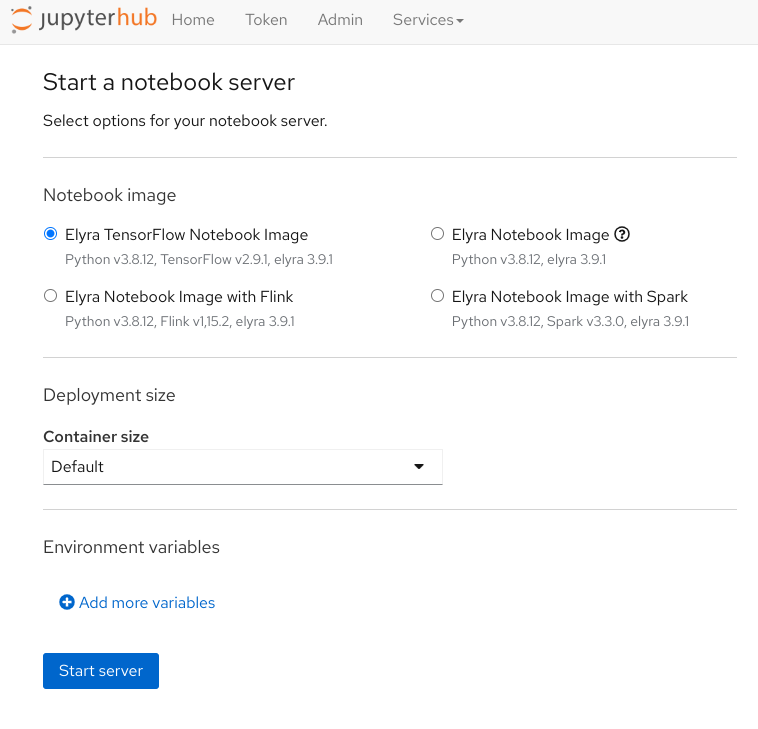
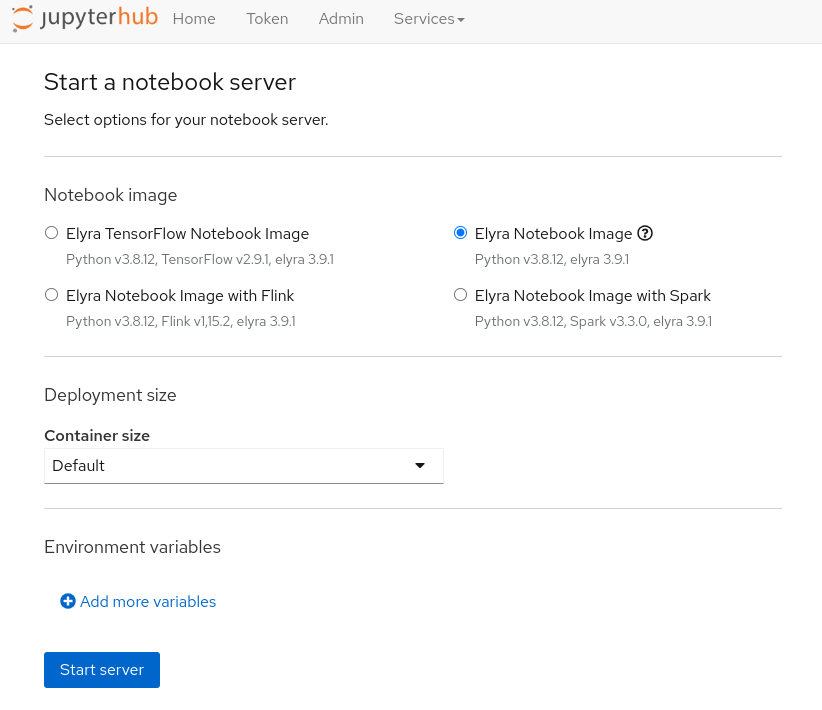
🦩 initial commit 🦩

diff --git a/4-aiml-demos/2-mlflow.md b/4-aiml-demos/2-mlflow.md
@@ -2,57 +2,122 @@
 ## Model pipeline promotion with MLFlow
 > mlflow - model lifecycle using a simple regression model, airflow pipeline promotion
 
-1. Once your notebook has opened
+1. From the previous exercise, open the **Elyra Notebook Image**.
 
 2. Open **aimlops-demos/mlflow** and Click on the notebook **mlflow.ipynb**
 
-3. Click **Terminal**, Install python deps
+   ![2-mlflow-notebook](./images/2-mlflow-notebook.png)
 
-    ```bash
-    pip install category_encoders matplotlib boto3 mlflow==1.27.0
-    ```
-
-4. Follow the notebook. Open MLFlow UI
+3. Install dependencies and follow the notebook instructions. Open MLFlow UI, use the **FreeIPA** identity provider when prompted.
 
    ```bash
-   oc login --server=https://api.${CLUSTER_DOMAIN##apps.}:6443 -u <USER_NAME> -p <PASSWORD>
+   oc login --server=https://api.${CLUSTER_DOMAIN##apps.}:6443 -u ${USER_NAME} -p ${USER_PASSWORD}
    ```
 
    ```bash
    echo -e https://$(oc get route mlflow --template='{{ .spec.host }}' -n ${PROJECT_NAME})
    ```
 
-5. Observe Model params
-6. Register Model as **TestModel** **Version1**
-7. Open **mlflow.pipeline** browse Properties
-8. Trigger Airflow Pipeline
-9. Watch build steps in Airflow
+   ![2-mlflow-ui](./images/2-mlflow-ui.png)
+
+4. You can select the model run to observe the model params, as well as see the debug printout in the notebook.
+
+   ![2-mlflow-model-run](./images/2-mlflow-model-run.png)
+
+5. Use the **model > Register Model** button
+
+   ![2-mlflow-register-model](./images/2-mlflow-register-model.png)
+
+   to register a model called **TestModel**
+
+   ![2-mlflow-register-model2](./images/2-mlflow-register-model2.png)
+
+   and create a **Version1** revision
+ 
+   ![2-mlflow-register-model3](./images/2-mlflow-register-model3.png)
+
+6. Open **mlflow.pipeline** and browse the **Properties** for each pipeline node. The name and version of the model we want to deploy are specified as environment variables. The pipeline file dependencies are also listed.
+
+   ![2-mlflow-pipeline-props](./images/2-mlflow-pipeline-props.png)
+
+7. Trigger Airflow Pipeline by using the **Run Pipeline** triangle button and click **OK**. The airflow pipeline configuration we created earlier should be auto selected.
+
+   ![2-mlflow-pipeline-run](./images/2-mlflow-pipeline-run.png)
+
+8. Once submitted you should see a popup with links to the **DAG**, **Airflow Run Details** and the artifacts loaded into **S3 Object Storage**.
+   
+   ![2-mlflow-pipeline-details](./images/2-mlflow-pipeline-details.png)
+
+9. The **Git Repo** should have the DAG
+
+   ![2-mlflow-dag-git](./images/2-mlflow-dag-git.png)
+
+10. Select the Airflow **Run Details** and login to Airflow.
+
+    ```bash
+    echo -e https://$(oc get route airflow --template='{{ .spec.host }}' -n ${PROJECT_NAME})
+    ```
+
+   Airflow watches the git repo for DAG's and loads them.
+
+   ![2-mlflow-airflow-dag](./images/2-mlflow-airflow-dag.png)
+
+   You can select the DAG run and look at the graph.
+
+   ![2-mlflow-airflow-graph](./images/2-mlflow-airflow-graph.png)
+
+   Browse the DAG log for each step in Airflow (Note: this is **not** the actual python step log output - that is stored in s3 logs - see next step to browse with **mc**)
+
+   ![2-mlflow-airflow-dag-log](./images/2-mlflow-airflow-dag-log.png)
+
+11. The DAG step output logs are stored in S3 for each run. We can use the minio client **mc** to look at them. From Jupyterhub terminal.
 
    ```bash
-   echo -e https://$(oc get route airflow --template='{{ .spec.host }}' -n ${PROJECT_NAME})
+   AWS_ACCESS_KEY_ID=$(oc get secret s3-auth -n ${PROJECT_NAME} -o jsonpath='{.data.AWS_ACCESS_KEY_ID}' | base64 -d)
+   AWS_SECRET_ACCESS_KEY=$(oc get secret s3-auth -n ${PROJECT_NAME} -o jsonpath='{.data.AWS_SECRET_ACCESS_KEY}' | base64 -d)
    ```
 
-10. Check dag in git, logs in Airflow, and S3 logs
+   Setup an **mc** alias called **dev**
 
-    ```bash
-    AWS_ACCESS_KEY_ID=$(oc get secret s3-auth -n ${PROJECT_NAME} -o jsonpath='{.data.AWS_ACCESS_KEY_ID}' | base64 -d)
-    AWS_SECRET_ACCESS_KEY=$(oc get secret s3-auth -n ${PROJECT_NAME} -o jsonpath='{.data.AWS_SECRET_ACCESS_KEY}' | base64 -d)
-    ```
+   ```bash
+   mc alias set dev http://minio.${TEAM_NAME}-ci-cd.svc.cluster.local:9000 ${AWS_ACCESS_KEY_ID} ${AWS_SECRET_ACCESS_KEY} 
+   ```
 
-    ```bash
-    mc alias set dev http://minio.${TEAM_NAME}-ci-cd.svc.cluster.local:9000 ${AWS_ACCESS_KEY_ID} ${AWS_SECRET_ACCESS_KEY} 
-    ```
+   List the buckets under the **dev** alias.
 
-    ```bash
-    mc ls dev
-    ```
+   ```bash
+   mc ls dev
+   ```
 
-11. Once Seldon model deployed we can check the inference end point
+   Some useful commands to look at logs.
+
+   ```bash
+   mc ls cat dev/<log name>
+   mc ls head/<log name>
+   ```
+
+   ![2-mlflow-s3-dag-logs](./images/2-mlflow-s3-dag-logs.png)
+
+12. You can check the build and deployment pods for the run in OpenShift. Because the generated airflow dag uses the Kubernetes Pod Operator, each step is run in a pod. Once successful you should see a compleed build pod and the running Seldon Model pod.
+
+   ![2-mlflow-build-deploy-pods](./images/2-mlflow-build-deploy-pods.png)
+
+13. Once the Seldon model is deployed and running we can check the inference end point using curl from our notebook terminal.
+
+   Get the model http endpoint.
 
    ```bash
    HOST=$(echo -n https://$(oc -n ${PROJECT_NAME} get $(oc -n ${PROJECT_NAME} get route -l app.kubernetes.io/managed-by=seldon-core -o name) --template='{{ .spec.host }}'))
    ```
-   
+
+   Curl the endpoint with the correct shaped (1d) ndarray.   
+
    ```bash
    curl -H 'Content-Type: application/json' -H 'Accept: application/json' -X POST $HOST/api/v1.0/predictions -d '{"data": {"ndarray": [[1.23]]}}'
    ```
+
+   Result.
+
+   ![2-mlflow-curl](./images/2-mlflow-curl.png)
+
+🪄🪄 Congratulations !! You have now trained, built and deployed and tested your first ML model !! 🪄🪄

diff --git a/1-the-rise-of-the-cluster/1-tooling-installation.md b/1-the-rise-of-the-cluster/1-tooling-installation.md
@@ -22,6 +22,7 @@ My favourite development environment has become SNO on SPOT in AWS. With this se
    export SSH_KEY=$(cat ~/.ssh/id_rsa.pub)
    export INSTANCE_TYPE=m6a.4xlarge
    export ROOT_VOLUME_SIZE=200
+   export OPENSHIFT_VERSION=4.11.22
    
    mkdir -p ~/tmp/sno-foo && cd ~/tmp/sno-foo
    curl -Ls https://raw.githubusercontent.com/eformat/sno-for-100/main/sno-for-100.sh | bash -s -- -d
@@ -479,7 +480,7 @@ The Rainforest base tooling and operators are configured using a helm chart. Thi
 
    ![devspaces-pods](./images/devspaces-pods.png)
 
-4. **FIXME** - We need to add specific RBC for our data science user group. For now make them cluster-admins.
+4. **FIXME** - We need to add specific RBAC for our data science user group. For now make them cluster-admins.
 
    ```bash
    oc adm policy add-cluster-role-to-group cluster-admin student 

diff --git a/2-platform-work/2-argocd.md b/2-platform-work/2-argocd.md
@@ -146,7 +146,7 @@ ArgoCD is a gitops controller. We will use the OpenShift Gitops operator to depl
 
    ![argocd-projects](./images/argocd-projects.png)
 
-9. Login to Gitlab using LDAP and create an Internal Group called <TEAM_NAME>.
+9. Login to Gitlab using LDAP and create an Internal Group called **<TEAM_NAME>**.
 
     ```bash
     echo https://$(oc get route gitlab-ce --template='{{ .spec.host }}' -n gitlab)
@@ -154,7 +154,7 @@ ArgoCD is a gitops controller. We will use the OpenShift Gitops operator to depl
 
     ![gitlab-group](./images/gitlab-group.png)
 
-10. Create an Internal Project called <TEAM_NAME>.
+10. Create an Internal Project called **<TEAM_NAME>**.
 
     ![gitlab-project](./images/gitlab-project.png)
 

diff --git a/2-platform-work/3-secrets.md b/2-platform-work/3-secrets.md
@@ -341,13 +341,13 @@ We have an encrypted file with all of the vault commands pre-baked to create our
 
    ![secrets-global-replace](./images/secrets-global-replace.png)
 
-   Replace the cluster domain in the code with **our actual** cluster domain.
+   Use **Replace All** for the cluster domain in the code with **our actual** cluster domain.
 
    ```bash
-   foo-sno.sandbox1234.opentlc.com ->  echo ${CLUSTER_DOMAIN##apps.}
+   foo.sandbox1234.opentlc.com ->  echo ${CLUSTER_DOMAIN##apps.}
    ```
 
-   Replace Github coordinates with our gitlab ones. 
+   Use **Replace All** for the Github coordinates with our Gitlab ones. 
 
    ```bash
    github.com/eformat ->  <GIT_SERVER>/<TEAM_NAME>

diff --git a/3-supply-chain/4-sso.md b/3-supply-chain/4-sso.md
@@ -27,7 +27,7 @@ We are using a GitOps pattern to manage single sign on for all of our apps. We c
 
    ```bash
    cd /projects/rainforest
-   git add gitops/iam/daintree-dev/values.yaml
+   git add gitops/iam/chart/iam/daintree-dev/values.yaml
    git commit -am "🐙 UPDATE - iam values file 🐙"
    git push
    ```
